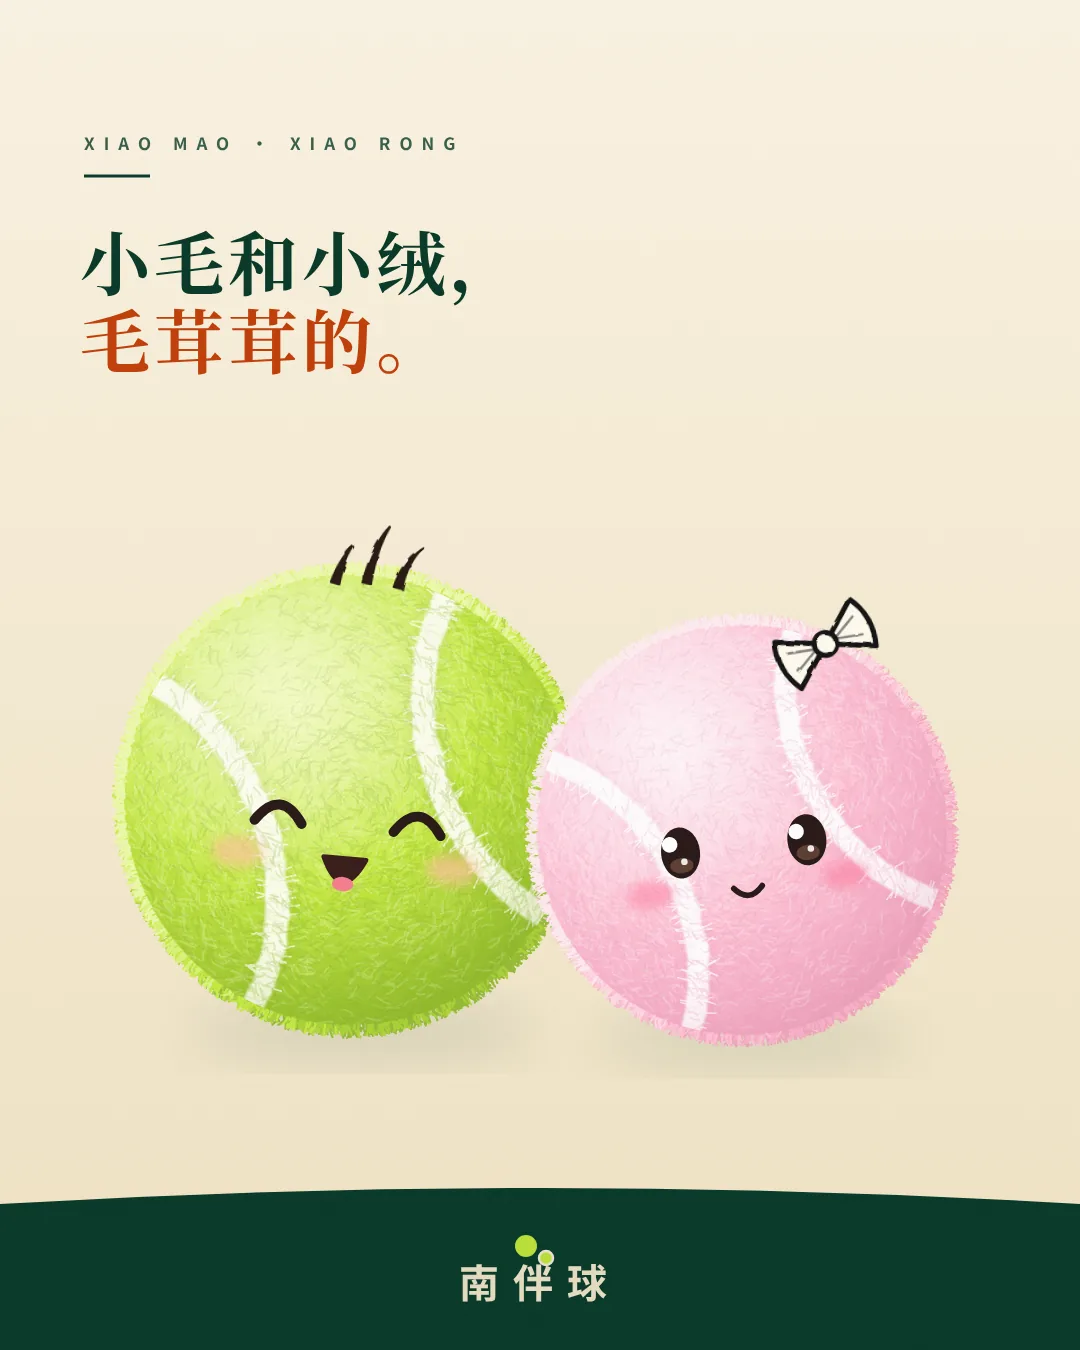
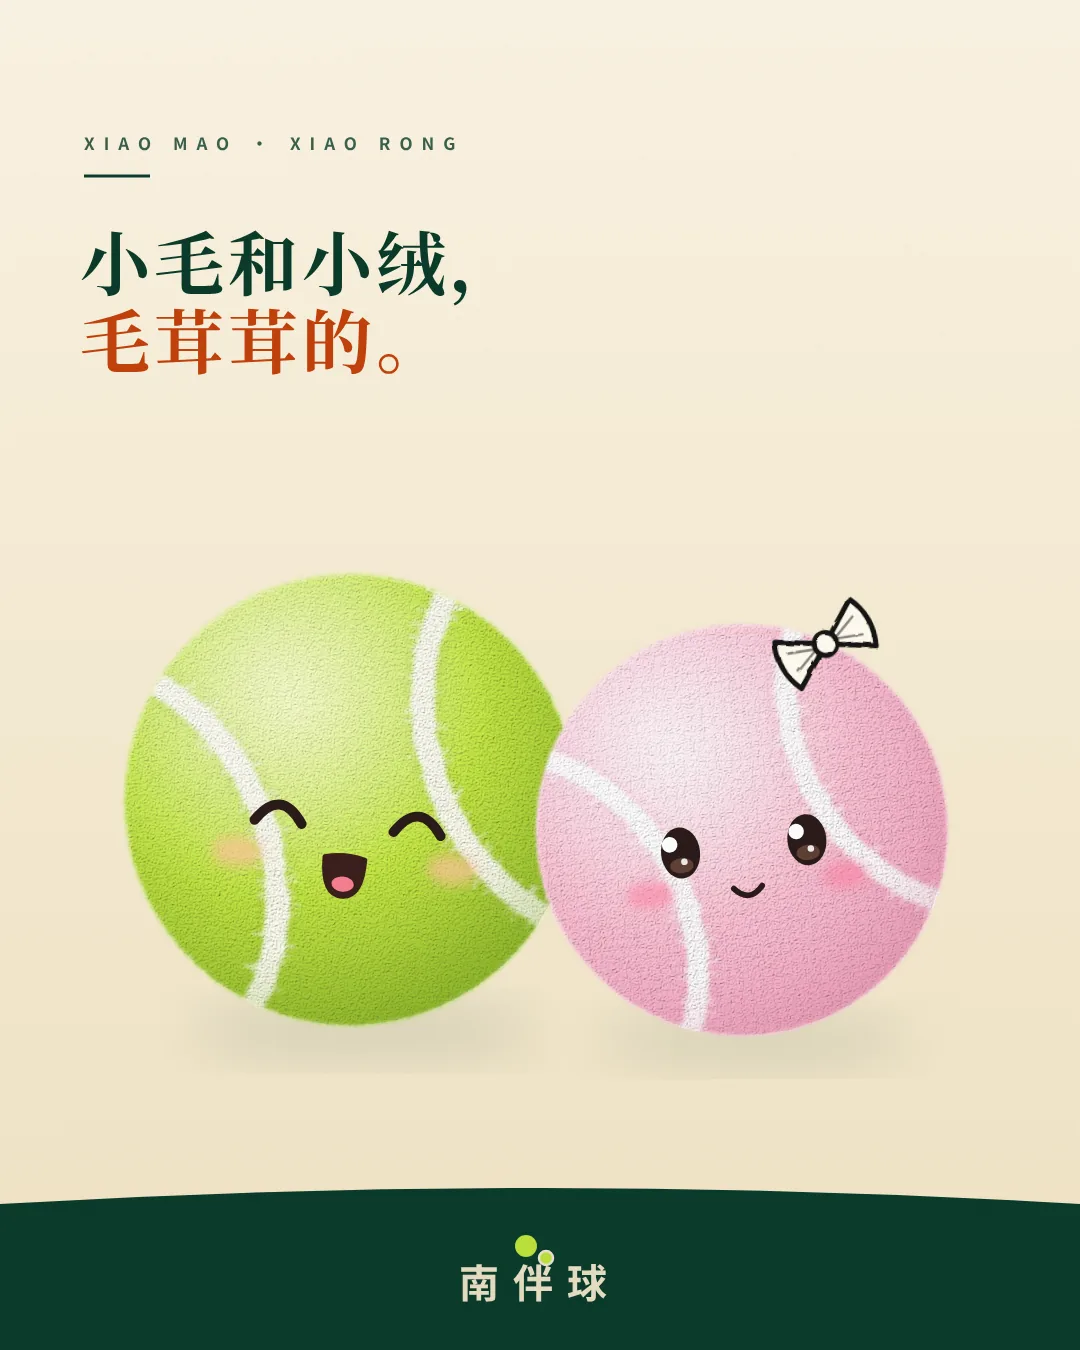
小毛小绒 v4.1：毛毡质感替代毛须，去掉小毛头顶的毛
Claude-Session: https://claude.ai/code/session_01Vg2RCbjYppFezKGzdwzEXB

Changed region(s): [[0.0917, 0.3733, 0.8861, 0.7778], [0.1833, 0.4356, 0.2444, 0.4667]]

diff --git a/marketing/mao4.py b/marketing/mao4.py
@@ -98,17 +98,34 @@ def fuzzball(id, cx, cy, r, pal, seed=1, rot=-22, dens=1.0):
     defs = (
         f'<defs>'
         f'<radialGradient id="bg{id}" cx=".36" cy=".30" r=".82"><stop offset="0" stop-color="{pal["hi"]}"/><stop offset=".48" stop-color="{mid}"/><stop offset="1" stop-color="{lo}"/></radialGradient>'
-        f'<radialGradient id="fs{id}" cx=".34" cy=".28" r=".98"><stop offset=".58" stop-color="{lo}" stop-opacity="0"/><stop offset="1" stop-color="{_mix(lo, "#3A1020" if pal is PINK_P else "#1F3A00", .35)}" stop-opacity=".42"/></radialGradient>'
+        f'<radialGradient id="fs{id}" cx=".34" cy=".28" r=".98"><stop offset=".58" stop-color="{lo}" stop-opacity="0"/><stop offset="1" stop-color="{_mix(lo, "#3A1020" if pal is PINK_P else "#1F3A00", .35)}" stop-opacity=".55"/></radialGradient>'
         f'<radialGradient id="hl{id}" cx=".3" cy=".24" r=".5"><stop offset="0" stop-color="#fff" stop-opacity=".42"/><stop offset="1" stop-color="#fff" stop-opacity="0"/></radialGradient>'
         f'<clipPath id="bc{id}"><circle r="{r}"/></clipPath>'
         f'<filter id="sf{id}" x="-20%" y="-20%" width="140%" height="140%"><feTurbulence type="fractalNoise" baseFrequency=".09" numOctaves="2" seed="{seed}" result="n"/><feDisplacementMap in="SourceGraphic" in2="n" scale="2.6"/><feGaussianBlur stdDeviation=".45"/></filter>'
         f'<filter id="sb{id}" x="-20%" y="-20%" width="140%" height="140%"><feGaussianBlur stdDeviation="2.2"/></filter>'
         f'<filter id="ed{id}" x="-10%" y="-10%" width="120%" height="120%"><feTurbulence type="fractalNoise" baseFrequency="{.9/max(r,40)*40:.2f}" numOctaves="2" seed="{seed+3}" result="n"/><feDisplacementMap in="SourceGraphic" in2="n" scale="{max(1.2, .03*r):.1f}"/></filter>'
         f'</defs>')
-    return (defs + f'<g transform="translate({cx:.1f} {cy:.1f})">{halo_svg}'
-            f'<circle r="{r}" fill="url(#bg{id})" filter="url(#ed{id})"/>'
-            f'<g clip-path="url(#bc{id})"><g transform="scale({u})">{seam_svg}</g>{fiber_svg}'
-            f'<circle r="{r}" fill="url(#fs{id})"/><circle r="{r}" fill="url(#hl{id})"/></g></g>')
+    fr = min(1.0, max(.45, 110 / r))
+    ds = max(1.4, .026 * r)
+    felt = (
+        f'<filter id="fz{id}" x="-12%" y="-12%" width="124%" height="124%" color-interpolation-filters="sRGB">'
+        f'<feTurbulence type="fractalNoise" baseFrequency="{fr*.8:.2f}" numOctaves="3" seed="{seed}" result="n"/>'
+        f'<feDisplacementMap in="SourceGraphic" in2="n" scale="{ds:.1f}" xChannelSelector="R" yChannelSelector="G" result="d"/>'
+        f'<feGaussianBlur in="d" stdDeviation="{max(.6, .0065*r):.2f}" result="db"/>'
+        f'<feTurbulence type="fractalNoise" baseFrequency="{fr*1.7:.2f}" numOctaves="2" seed="{seed+5}" result="n2"/>'
+        f'<feDiffuseLighting in="n2" surfaceScale="1.5" diffuseConstant="1.15" lighting-color="#fff" result="lit"><feDistantLight azimuth="235" elevation="58"/></feDiffuseLighting>'
+        f'<feComposite in="lit" in2="db" operator="in" result="li"/>'
+        f'<feBlend in="li" in2="db" mode="multiply"/>'
+        f'</filter>'
+        f'<filter id="gl{id}" x="-15%" y="-15%" width="130%" height="130%">'
+        f'<feTurbulence type="fractalNoise" baseFrequency="{fr*.9:.2f}" numOctaves="3" seed="{seed+9}" result="n"/>'
+        f'<feDisplacementMap in="SourceGraphic" in2="n" scale="{ds*1.9:.1f}" xChannelSelector="R" yChannelSelector="G"/>'
+        f'<feGaussianBlur stdDeviation="{max(1., .01*r):.2f}"/></filter>')
+    return (defs + f'<defs>{felt}</defs><g transform="translate({cx:.1f} {cy:.1f})">'
+            f'<circle r="{r*1.0:.1f}" fill="{mid}" opacity=".55" filter="url(#gl{id})"/>'
+            f'<g filter="url(#fz{id})"><circle r="{r}" fill="url(#bg{id})"/>'
+            f'<g clip-path="url(#bc{id})"><g transform="scale({u})">{seam_svg}</g></g></g>'
+            f'<g clip-path="url(#bc{id})"><circle r="{r}" fill="url(#fs{id})"/><circle r="{r}" fill="url(#hl{id})"/></g></g>')
 
 
 def face4(id, cx, cy, r, mood='smile', look=0, pal=LIME_P):
@@ -275,7 +292,7 @@ def figure4(id, cx, cy, r, pose='wave', mood='happy', char='mao', tilt=None, lif
     ground = pen(f'M{cx - .9*r:.1f} {gy:.1f} Q{cx - .3*r:.1f} {gy - .03*r:.1f} {cx + .15*r:.1f} {gy:.1f} T{cx + .9*r:.1f} {gy - .004*r:.1f}', w * .7, .55)
     soft_sh = (f'<ellipse cx="{cx + .05*r:.1f}" cy="{gy:.1f}" rx="{(.82 - lift*.4)*r:.1f}" ry="{.085*r:.1f}" fill="#0B3B2A" opacity="{.16 - lift*.2:.2f}" '
                f'filter="url(#{"bl6" if r < 80 else "bl14"})"/>') if soft else ''
-    hair = tuft4(cx, cy, r, w) if char != 'rong' else bow4(cx, cy, r, w)
+    hair = bow4(cx, cy, r, w) if char == 'rong' else ''
     seed = seed or (zlib.crc32(str(id).encode()) % 97 + 3)
     front = f'<g filter="url(#rough2)">{arms}</g>' if P.get('front') else ''
     limbs = f'<g filter="url(#rough2)">{legs}{arms if not P.get("front") else ""}</g>'

diff --git a/marketing/posters/p82_mao_rong_v4.py b/marketing/posters/p82_mao_rong_v4.py
@@ -5,7 +5,7 @@ from mao4 import figure4, K_ARM, GROUND
 META = dict(
     id=82, slug='mao-rong-v4', title='小毛和小绒，好朋友（毛茸茸版）', lines=['小毛和小绒，', '好朋友。'],
     style=['插画', '角色', '拟人', '极简'], tone='浅色', demo=False,
-    concept='v4 设定：毛茸茸的黄绿小毛（头顶一小撮毛）和棉花糖粉的小绒（小蝴蝶结）；婴儿比例的大眼睛、短短的黑线手脚；主图击掌，下面三个合照：搭肩 / 一起招手 / 晚安',
+    concept='v4 设定：毛茸茸的黄绿小毛和棉花糖粉的小绒（小蝴蝶结）；婴儿比例的大眼睛、短短的黑线手脚；主图击掌，下面三个合照：搭肩 / 一起招手 / 晚安',
     use='客服 / 运营形象的双人设定；做“约球搭子”“带朋友一起来”的物料',
 )
 
@@ -31,8 +31,7 @@ def svg():
     rong_pose = dict(L=((-1.5, -.2), raw(SH_L, hr)), R=DOWN_R, legs='stand')
     sparks = ''.join(pen(f'M{tx + math.cos(math.radians(a))*30:.1f} {ty + math.sin(math.radians(a))*30:.1f} L{tx + math.cos(math.radians(a))*52:.1f} {ty + math.sin(math.radians(a))*52:.1f}', 3)
                      for a in (-150, -120, -90, -60, -30))
-    note = (pen('M214 440 Q280 454 332 440', 2.6) + pen('M318 432 L333 440 L319 449', 2.6)
-            + pen('M876 470 Q850 478 812 490', 2.6) + pen('M826 478 L811 490 L828 496', 2.6))
+    note = (pen('M876 470 Q850 478 812 490', 2.6) + pen('M826 478 L811 490 L828 496', 2.6))
     r2, gy2 = 44, 1080
     duo = ''
     xc = 200
@@ -65,7 +64,6 @@ def svg():
 {figure4('m', xm, 0, rm, mao_pose, 'happy', gy=gy)}
 {figure4('r', xr, 0, rr, rong_pose, 'smile', char='rong', gy=gy)}
 <g filter="url(#rough2)">{sparks}{note}</g>
-{label(96, 438, '一小撮毛', size=24)}
 {label(884, 462, '小蝴蝶结', size=24)}
 <text x="{xm}" y="{gy+64}" text-anchor="middle" font-family="{SERIF}" font-weight="900" font-size="38" fill="#0B3B2A">小毛</text>
 <text x="{xr}" y="{gy+64}" text-anchor="middle" font-family="{SERIF}" font-weight="900" font-size="38" fill="#0B3B2A">小绒</text>

diff --git a/marketing/posters/p83_mao_fuzz.py b/marketing/posters/p83_mao_fuzz.py
@@ -22,7 +22,7 @@ def svg():
 <rect width="{W}" height="{H}" fill="url(#bg83)"/>
 {tag('XIAO MAO · XIAO RONG', color='#0B3B2A', rule='#0B3B2A', op=.8, weight=700)}
 {headline(META['lines'], y=290, size=70, colors=('#0B3B2A', '#C2410C'), ls=4, lh=78)}
-{head('m', *a[:3], a[3], LIME_P, 'happy', tuft4, 0, 5)}
+{head('m', *a[:3], a[3], LIME_P, 'happy', lambda *a: '', 0, 5)}
 {head('r', *b[:3], b[3], PINK_P, 'smile', bow4, -1, 11)}
 <path d="M0 1204 Q540 1172 1080 1204 V1350 H0 Z" fill="#0B3B2A"/>
 {wordmark(1276, '#F3E6CC', sub=False, op=.95)}

diff --git a/.claude/skills/nanbanqiu-poster/SKILL.md b/.claude/skills/nanbanqiu-poster/SKILL.md
@@ -65,7 +65,7 @@ def svg():
 - **字标圆点是荧光黄绿**：在黄绿 / 浅色大色块上看不见，底部加一条深色条再放 `wordmark`（50、58、67 踩过）。
 - **冷知识海报做法**（68–72）：先挖网球事实（只用真的，拿不准写「相传」），再用网球物件承载：球当钟面（70）、两球当 0（68）、球罐成分表（69）、球网剖面加标注线（71）、红土球印加粉笔圈（72）；画面里留 2–3 处可细看的小标注。
 - **批量出图节奏**：一次 heredoc 写 3–4 个 `pNN_*.py`，`build.py --only` 一次出，Read 逐张看，只改被发现的缺陷，再统一改张数（`sed` CLAUDE.md / 进度记录.md / 本文件）、`--check`、`site.mjs`、`site.js`、提交推送、`SendUserFile` 发图。
-- **角色「小毛」**：**用 v4（82–83）**，`marketing/mao4.py` 的 `figure4(id,cx,cy,r,pose,mood,char,gy=…)`：程序化毛茸茸球（外圈毛须 + 内部纤维）、婴儿比例大眼睛（无睫毛）、嫩棉花糖粉 `PINK_P`、手脚更短；合照见 p82。**v3（78–81，`mao3.py`）球面太光滑像蛋、睫毛和比例被用户说奇怪，别再用**；以下姿势 / 笔触规则 v3、v4 通用。v3 说明：`figure3(id,cx,cy,r,pose,mood,char)`；两个角色：**小毛（男，`char='mao'`，头顶一小撮毛，嘴硬心软）/ 小绒（女，`char='rong'`，**一颗粉色的球**（`mao3.ball_c` + `PINK`）+ 奶油白小蝴蝶结 + 睫毛 + 玫瑰色腮红，话多守时；不要再画马尾、裙子）**，是好朋友；小绒用名字姿势时左右镜像（动作手在左，不和马尾打架）；合照用 dict 姿势 + `gy` 定地面线（见 p80）；：写实荧光球 + 33–36 同款脸（`mao2.face2`，眼睛用黑色）+ **只用黑色手写细线画手脚**（`pen` 双笔触 + `rough2` 抖动；手是小圆圈，脚是小椭圆球鞋，脚下一笔地面线）。**必须放浅色底**（奶油 `#FBF4E3→#F1E3C4`），黑线才看得见；浅色底字标圆点看不见，底部做深绿弧形条再放字标；标题用深绿 + `#C2410C`。pose=wave/cheer/plead/racket/wow/sorry/sleep；mood=smile/happy/cheer/wow/plead/wink/sweat/sleep；坐、抓绳等特殊姿势用 `pen/hand3/shoe3` 自己拼（见 p79）。v1（73–75 冷面脸）用户说「看起来不舒服、奇怪」，v2（76–77 黄绿粗手脚）用户说「球长手长脚奇怪」，**都别再用**。脸用 `face3`（face2 + 细眉毛 + 小绒睫毛 + 睡着的鼻泡）；细节：鞋带、求约的闪光星、歪头。口吻：陈述句、句号收尾、无感叹号。
+- **角色「小毛」**：**用 v4（82–83）**，`marketing/mao4.py` 的 `figure4(id,cx,cy,r,pose,mood,char,gy=…)`：毛毡质感球（SVG 噪声滤镜：边缘微抖动 + 软光晕 + 细颗粒光照；不要再画一圈毛须，用户说边缘不自然；小毛头顶不要毛）、婴儿比例大眼睛（无睫毛）、嫩棉花糖粉 `PINK_P`、手脚更短；合照见 p82。**v3（78–81，`mao3.py`）球面太光滑像蛋、睫毛和比例被用户说奇怪，别再用**；以下姿势 / 笔触规则 v3、v4 通用。v3 说明：`figure3(id,cx,cy,r,pose,mood,char)`；两个角色：**小毛（男，`char='mao'`，头顶一小撮毛，嘴硬心软）/ 小绒（女，`char='rong'`，**一颗粉色的球**（`mao3.ball_c` + `PINK`）+ 奶油白小蝴蝶结 + 睫毛 + 玫瑰色腮红，话多守时；不要再画马尾、裙子）**，是好朋友；小绒用名字姿势时左右镜像（动作手在左，不和马尾打架）；合照用 dict 姿势 + `gy` 定地面线（见 p80）；：写实荧光球 + 33–36 同款脸（`mao2.face2`，眼睛用黑色）+ **只用黑色手写细线画手脚**（`pen` 双笔触 + `rough2` 抖动；手是小圆圈，脚是小椭圆球鞋，脚下一笔地面线）。**必须放浅色底**（奶油 `#FBF4E3→#F1E3C4`），黑线才看得见；浅色底字标圆点看不见，底部做深绿弧形条再放字标；标题用深绿 + `#C2410C`。pose=wave/cheer/plead/racket/wow/sorry/sleep；mood=smile/happy/cheer/wow/plead/wink/sweat/sleep；坐、抓绳等特殊姿势用 `pen/hand3/shoe3` 自己拼（见 p79）。v1（73–75 冷面脸）用户说「看起来不舒服、奇怪」，v2（76–77 黄绿粗手脚）用户说「球长手长脚奇怪」，**都别再用**。脸用 `face3`（face2 + 细眉毛 + 小绒睫毛 + 睡着的鼻泡）；细节：鞋带、求约的闪光星、歪头。口吻：陈述句、句号收尾、无感叹号。
 - 常量 `W H SERIF SANS C`，以及 `math` `random` 已导入。
 
 ## 经验和坑

diff --git a/.claude/skills/nanbanqiu-poster/品味手册.md b/.claude/skills/nanbanqiu-poster/品味手册.md
@@ -90,3 +90,4 @@
 - 10-29：女生角色**用一颗粉色的球**表示（比马尾 / 裙子好，更简约）；强调**细节决定高度**：动作和表情要认真做（眉毛、睫毛、鞋带、歪头、闪光星、睡着的鼻泡、击掌成 Λ 形不缠成一根）。
 
 - 10-29 小绒 v3 反馈：睫毛奇怪、比例奇怪、球面太光滑像蛋、粉色不够嫩 → v4：去睫毛，球要毛茸茸（毛须 + 纤维），粉用棉花糖粉，眼睛大而圆、手脚短。
+- 10-29 v4 首版毛须边缘被说不自然、小毛头顶三根毛画蛇添足 → 改毡面质感（边缘软、不画毛须），小毛头上不加东西。
